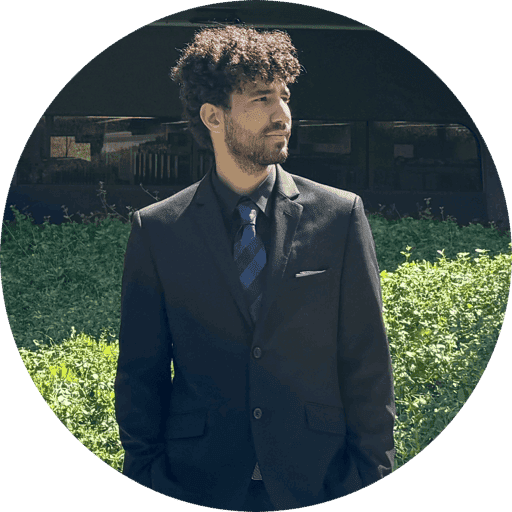
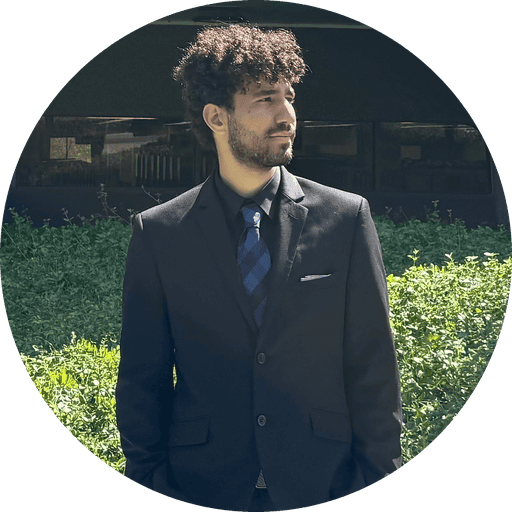
Update Abubakr pictures

diff --git a/assets/css/components.css b/assets/css/components.css
@@ -1223,6 +1223,27 @@ html.intro-lock { overflow: hidden; }
 }
 .about-photo figcaption b { color: var(--blue-2); font-weight: 400; }
 
+/* The two photos stack in the left column: the portrait, then the library shot
+   under it. The file itself is the full square frame; the shape here is 3/2,
+   which takes the trim out of the HEIGHT only and leaves the width alone, so
+   the picture still spans the column exactly as the portrait above it does.
+   object-position pulls the visible band down the frame: the upper facade
+   goes, and he sits under the sign rather than pushed to the bottom edge.
+   Reframing lives here rather than in the file so the original crop stays
+   intact and a re-frame stays a one-line change with nothing re-encoded. */
+.about-stack { display: grid; gap: 1.6rem; align-content: start; }
+.about-wide { position: relative; }
+.about-wide img {
+  width: 100%; aspect-ratio: 3 / 2; object-fit: cover;
+  object-position: 50% 82%; display: block;
+  border: 1px solid var(--line); border-radius: 16px;
+}
+.about-wide figcaption {
+  font-family: var(--mono); font-size: 0.62rem; letter-spacing: 0.14em;
+  text-transform: uppercase; color: var(--mute); margin-top: 0.8rem;
+}
+.about-wide figcaption b { color: var(--blue-2); font-weight: 400; }
+
 .about-lede {
   font-family: var(--serif); font-weight: 500;
   font-size: clamp(1.6rem, 3.4vw, 2.6rem);
@@ -1236,7 +1257,7 @@ html.intro-lock { overflow: hidden; }
 .facts > div { display: grid; grid-template-columns: 6rem 1fr; gap: 1rem; padding: 0.9rem 0; border-top: 1px solid var(--line); }
 .facts dt { color: var(--green); text-transform: uppercase; font-size: 0.68rem; letter-spacing: 0.1em; }
 .facts dd { color: var(--ink-dim); }
-@media (max-width: 760px) { .about-grid { grid-template-columns: 1fr; } .about-photo { max-width: 320px; } }
+@media (max-width: 760px) { .about-grid { grid-template-columns: 1fr; } .about-stack { max-width: 320px; } }
 
 /* ───────────── What this is ─────────────
    The section that says out loud what the whole site is for. Deliberately the

diff --git a/index.html b/index.html
@@ -171,10 +171,17 @@
     </div>
 
     <div class="about-grid">
-      <figure class="about-photo reveal" data-magnetic>
-        <span class="pic-frame"><img src="assets/img/me/portrait-1.jpg" alt="Abubakr Elmallah on the UC Irvine campus" loading="lazy" /></span>
-        <figcaption>On campus · <b>UC Irvine</b></figcaption>
-      </figure>
+      <div class="about-stack">
+        <figure class="about-photo reveal" data-magnetic>
+          <span class="pic-frame"><img src="assets/img/me/portrait-1.jpg" alt="Abubakr Elmallah on the UC Irvine campus" loading="lazy" /></span>
+          <figcaption>On campus · <b>UC Irvine</b></figcaption>
+        </figure>
+
+        <figure class="about-wide reveal" data-magnetic>
+          <span class="pic-frame"><img src="assets/img/me/campus-library.jpg" alt="Abubakr Elmallah outside Jack Langson Library at UC Irvine" loading="lazy" decoding="async" /></span>
+          <figcaption>Jack Langson Library · <b>UC Irvine</b></figcaption>
+        </figure>
+      </div>
 
       <div>
         <p class="about-lede reveal">

diff --git a/src/fan-harry-potter.html b/src/fan-harry-potter.html
@@ -152,6 +152,7 @@ redirect_from:
     <p class="fan-lede-hero">Seven books read before I knew what a compiler was. The houses, the spellbook, Quidditch, the wandlore, the seven Horcruxes and the three Hallows: the whole architecture of the thing, laid out. And for the record, before the Hat below gets a say in it: <b>I am a Ravenclaw</b>, and I have never once been talked out of it.</p>
     <div class="fan-links">
       <a class="fan-link" href="/worlds/" data-magnetic>All worlds ↗</a>
+      <a class="fan-link" href="/marauders-map/" data-magnetic>The Marauder's Map ↗</a>
       <a class="fan-link" href="#works" data-magnetic>Everything in it ↗</a>
     </div>
     <!-- Hogwarts, front elevation, left to right: the boathouse and the covered

diff --git a/src/fan-star-wars.html b/src/fan-star-wars.html
@@ -108,6 +108,7 @@ redirect_from:
       <a class="fan-link" href="#kyber" data-magnetic>Kyber ↗</a>
       <a class="fan-link" href="#planets" data-magnetic>The planet atlas ↗</a>
       <a class="fan-link" href="/star-wars/" data-magnetic>The apps I built for it ↗</a>
+      <a class="fan-link" href="/holocron/" data-magnetic>The Holocron terminal ↗</a>
       <a class="fan-link" href="#works" data-magnetic>Everything in it ↗</a>
     </div>
     <!-- Hero drawing + its line. This is the pattern for every fan page: one
